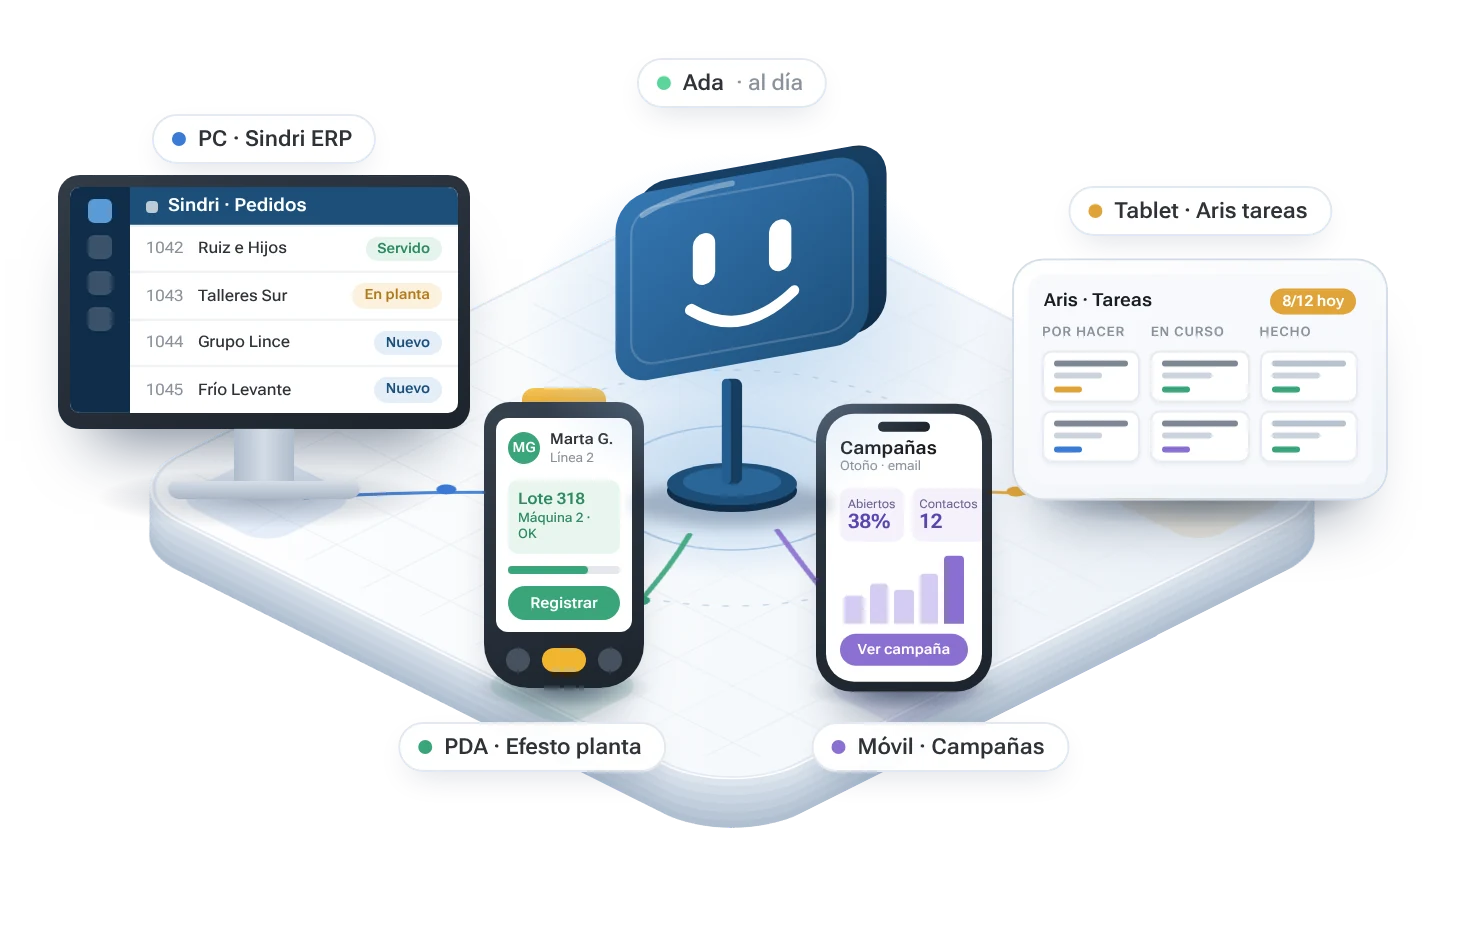
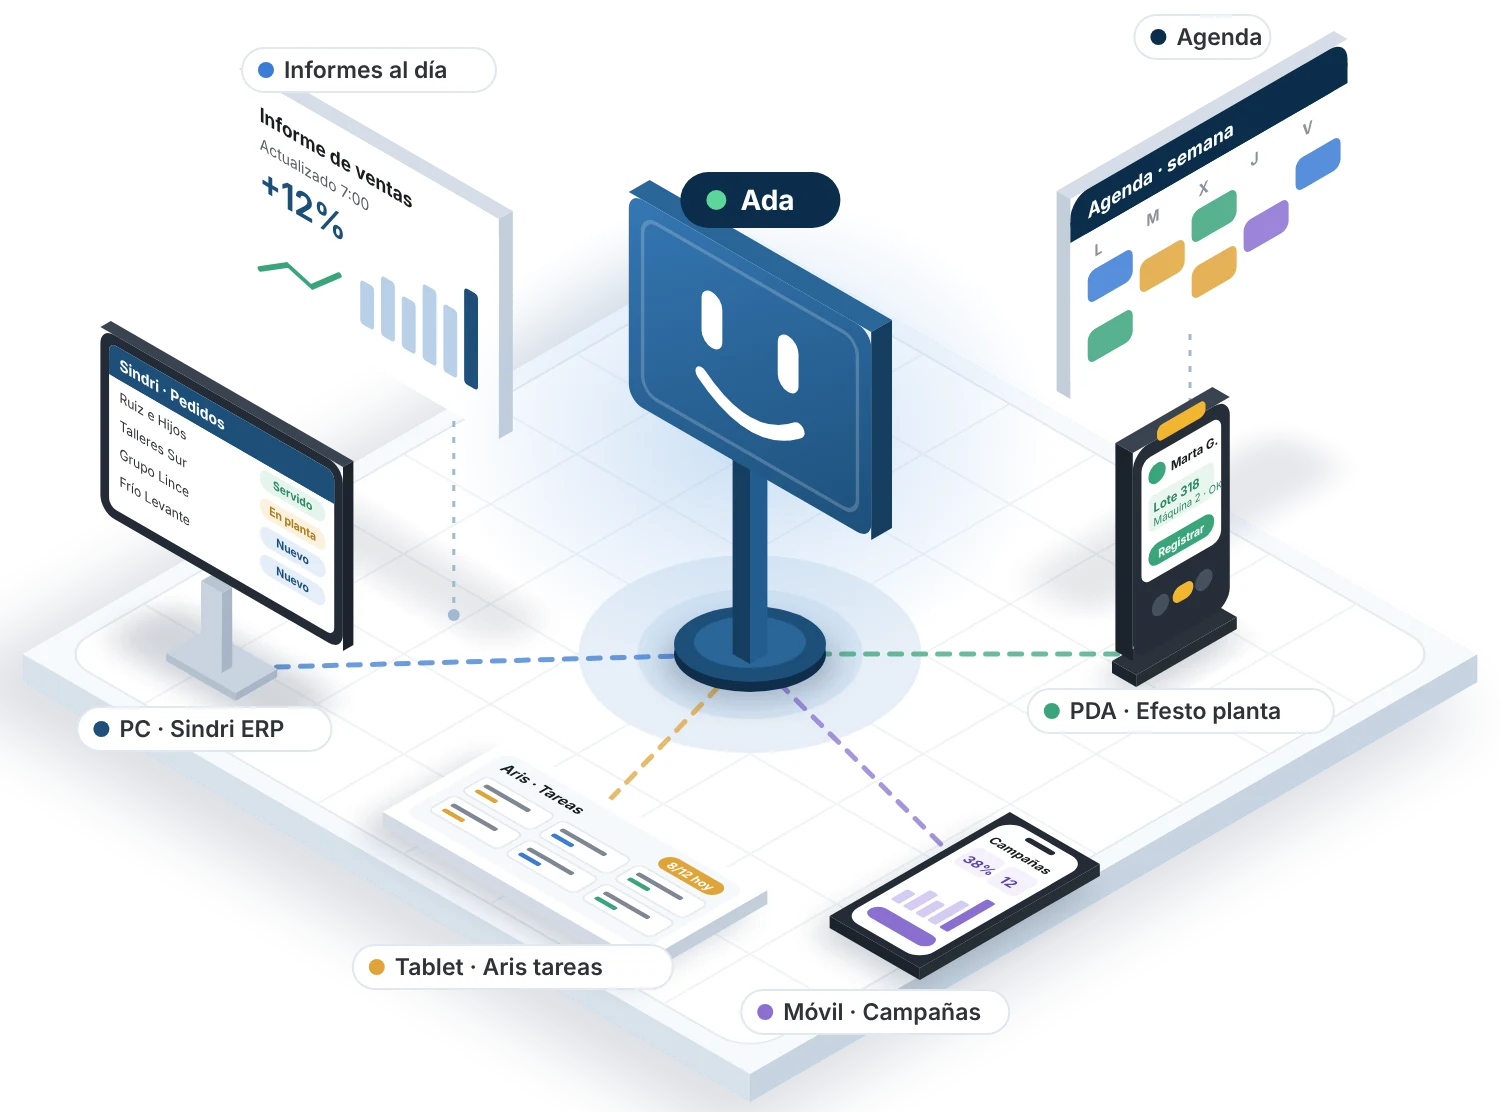
Cabecera: escena isométrica con Ada, PC, PDA, tablet, móvil, informe y agenda en el aire (#23)
Claude-Session: https://claude.ai/code/session_01HCFX8qBbkPBppSXG9XjigM

Changed region(s): [[0.0, 0.0, 1.0, 1.0], [0.4292, 0.0614, 0.5518, 0.1229]]

diff --git a/construir.js b/construir.js
@@ -582,7 +582,7 @@ UI.p = {
   seguir: 'Reanudar el pase',
   diapo: 'Mensaje {n} de {t}',
   carrusel: [
-    { ante: 'Analista de datos y desarrollador · Alicante', titulo: 'Automatizo procesos y pongo la IA a trabajar con los datos del negocio.', texto: 'Soy Henry Arce, fundador de Arce Data Lab. Encuentro las tareas manuales de un equipo, las convierto en flujos, asistentes e informes, y mido lo que se gana.', boton: 'Pide presupuesto', href: 'cta', img: 'img/ada/cabecera.webp', alt: 'Ada en el centro, conectada con el ERP Sindri en el PC, las tareas de Aris en la tablet, la PDA de una operaria de Efesto y las campañas en el móvil' },
+    { ante: 'Analista de datos y desarrollador · Alicante', titulo: 'Automatizo procesos y pongo la IA a trabajar con los datos del negocio.', texto: 'Soy Henry Arce, fundador de Arce Data Lab. Encuentro las tareas manuales de un equipo, las convierto en flujos, asistentes e informes, y mido lo que se gana.', boton: 'Pide presupuesto', href: 'cta', img: 'img/ada/cabecera.webp', alt: 'Ada en el centro, conectada con el ERP Sindri en el PC, las tareas de Aris en la tablet, la PDA de Efesto, las campañas en el móvil, y un informe y la agenda flotando' },
     { ante: 'Sindri · Brokkr · Efesto', titulo: 'ERP, CRM y planta, hablando entre sí.', texto: 'Lo que cierra el comercial llega al ERP, y la fábrica lo produce y lo registra sin copiar nada.', boton: 'Probarlo en el laboratorio', href: 'lab/#efesto', img: 'img/ada/efesto.webp', alt: 'Efesto: máquinas de la planta conectadas con Sindri' },
     { ante: 'Datos y reporting', titulo: 'Tus números, al día cada mañana.', texto: 'Un cuadro de mando con las cifras cuadradas que se actualiza solo, sin copiar Excel.', boton: 'Ver un informe de ejemplo', href: 'lab/#reporting', img: 'img/ada/informe.webp', alt: 'Informe comercial de ejemplo con ventas por mes y mejores clientes' }
   ],

diff --git a/index.html b/index.html
@@ -55,7 +55,7 @@
     <section class="heroe" id="inicio" aria-roledescription="carrusel" aria-label="Lo que hace Arce Data Lab">
       <div class="heroe-pista">
         <article class="heroe-diapo activa" id="diapo0" aria-roledescription="diapositiva" aria-label="Mensaje 1 de 3">
-          <div class="heroe-imagen"><img src="img/ada/cabecera.webp" alt="Ada en el centro, conectada con el ERP Sindri en el PC, las tareas de Aris en la tablet, la PDA de una operaria de Efesto y las campañas en el móvil" width="969" height="603"></div>
+          <div class="heroe-imagen"><img src="img/ada/cabecera.webp" alt="Ada en el centro, conectada con el ERP Sindri en el PC, las tareas de Aris en la tablet, la PDA de Efesto, las campañas en el móvil, y un informe y la agenda flotando" width="969" height="603"></div>
           <div class="heroe-texto">
             <p class="heroe-ante">Analista de datos y desarrollador · Alicante</p>
             <h1>Automatizo procesos y pongo la IA a trabajar con los datos del negocio.</h1>
